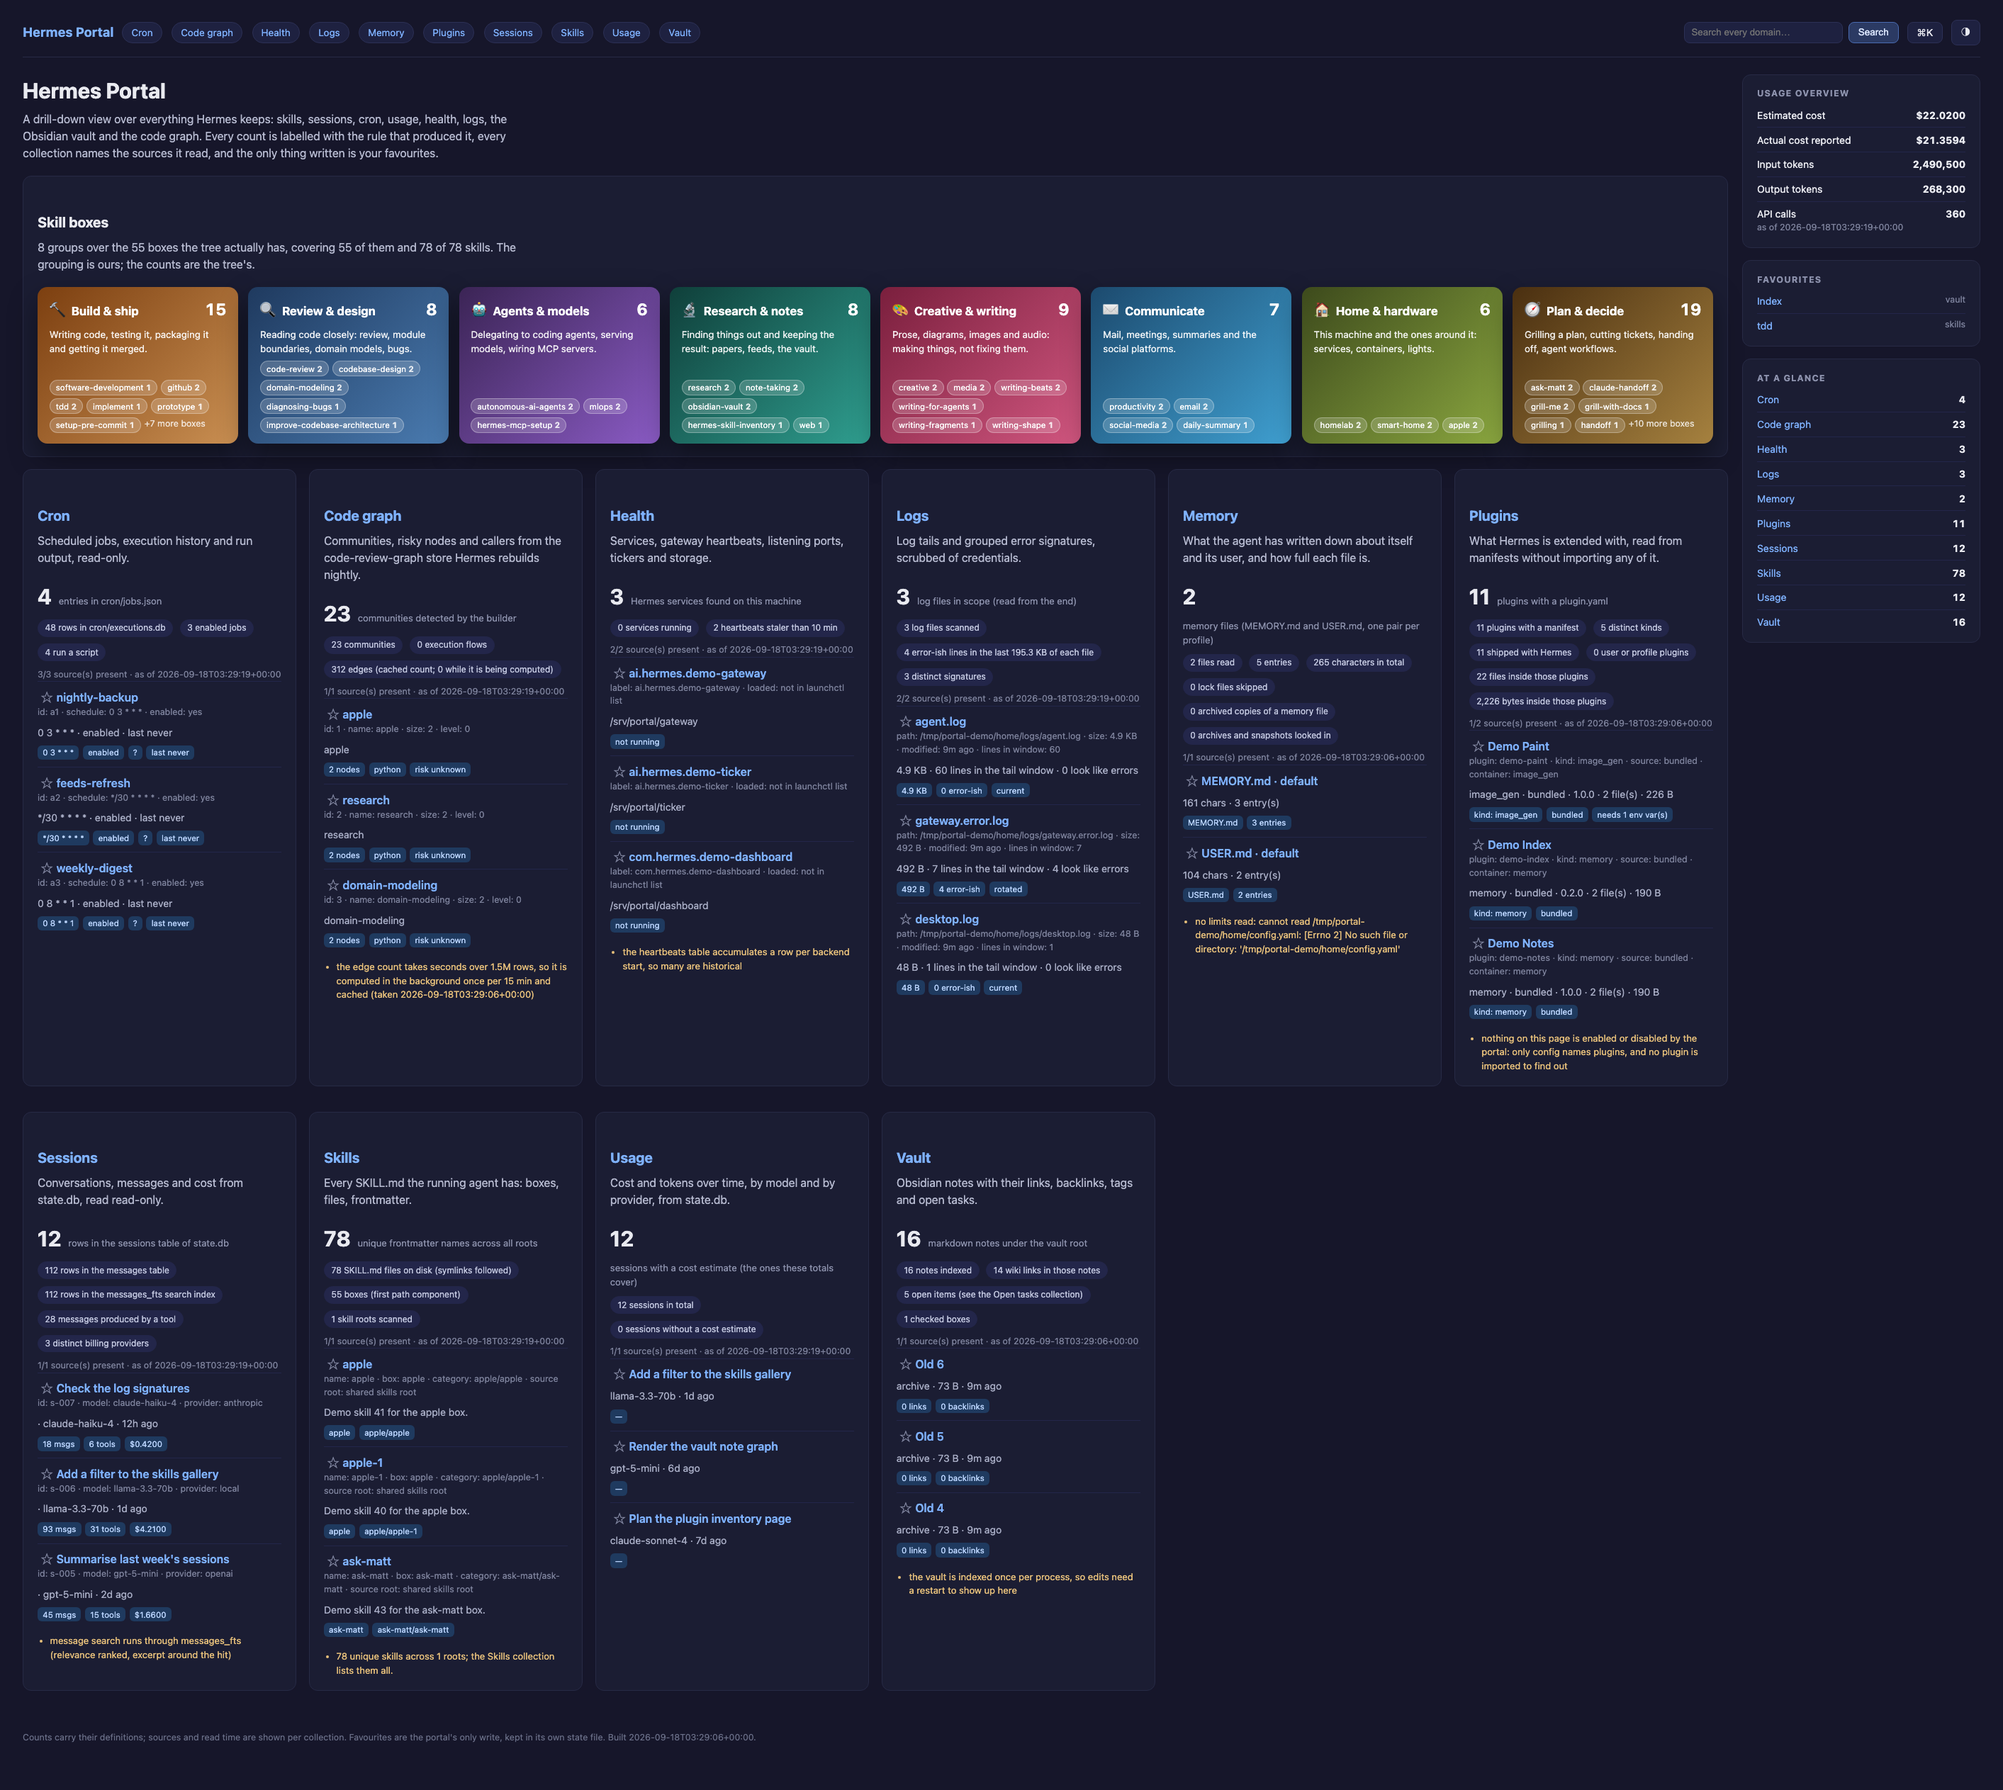
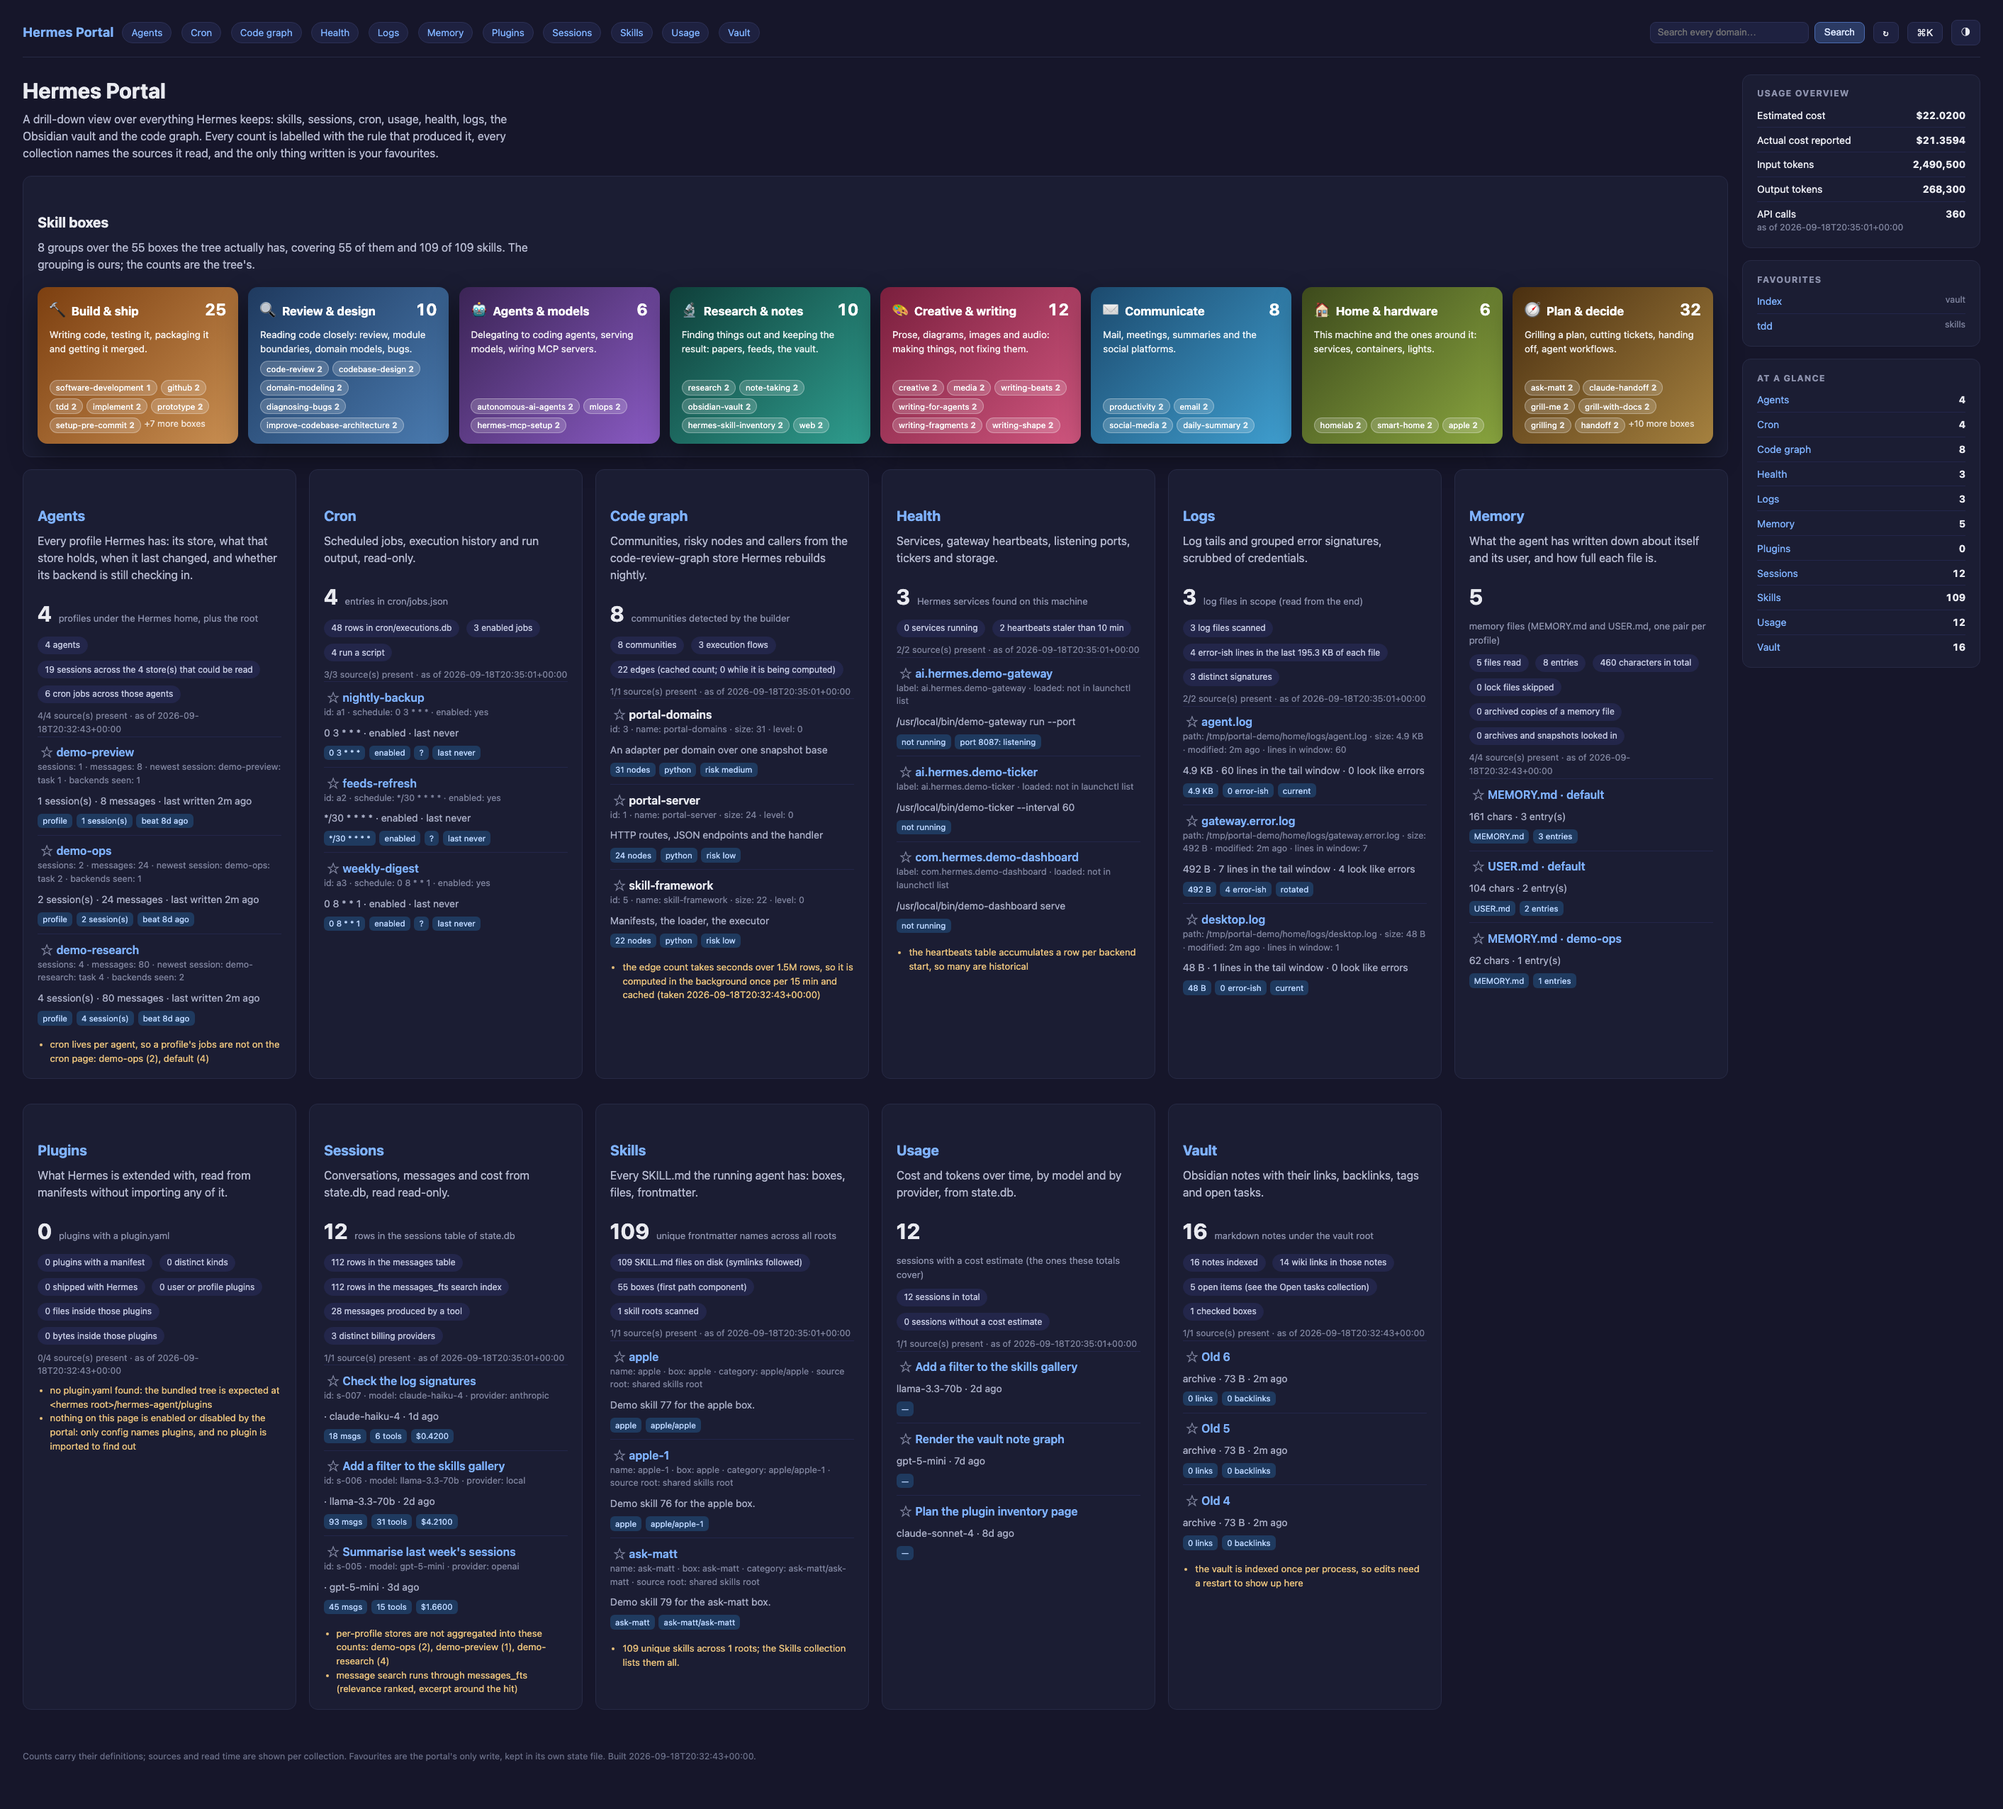
A new README screenshot, and the row-order fix it found
The screenshot is a re-shoot of the demo instance, and it is not only cosmetic: the
agents card's rows led with `home:` and `store:`, two absolute paths where a row's
meta line (`render.py`, `record.fields[:4]`) should say what the agent has been
doing.  So the fields now lead with sessions, messages, newest session and backends
seen, and the size and the paths trail -- on a real machine too, where those first
four fields were the home path and the store path.

The fixture needed three things the eleventh domain reads: profile stores (the agents
card renders a single row without them), a code-graph store replayed from the
builder's own DDL (without it the card said "graph.db could not be read") and a
config.yaml (without it the memory card noted that it could not read one).  The store
DDL does not forgive carelessness either: `gateway_heartbeats.backend_id` is unique,
and two heartbeats on one backend id aborted the build.  That and the rest of the
shoot are recorded in the skill.

The image is a 1x capture of a 2826 CSS px viewport, the framing of the one it
replaces: the card grid is `auto-fill`, so a narrower viewport re-flows it into two
columns and doubles the page height.  The README now says out loud that the page is a
fixture, since the demo profile names are visible in it.

518 tests; one of them pins the field order instead of the position of a path.

diff --git a/hermes/portal/domains/agents.py b/hermes/portal/domains/agents.py
@@ -345,24 +345,28 @@ class AgentsDomain(SnapshotDomain[AgentIndex]):
             badges = (*badges, f"{agent.sessions} session(s)")
         if agent.store_readable and agent.heartbeats:
             badges = (*badges, f"beat {fmt_ago(agent.last_heartbeat)}")
-        fields: list[tuple[str, str]] = [("home", str(agent.base))]
+        fields: list[tuple[str, str]] = []
         if agent.store_readable:
             fields.extend(
                 [
-                    ("store", str(agent.store)),
-                    ("size", human_size(agent.store_size)),
-                    ("last written", fmt_ago(agent.store_modified)),
                     ("sessions", str(agent.sessions)),
                     ("messages", f"{agent.messages:,}"),
                     ("newest session", agent.latest_session or "\u2014"),
                     ("backends seen", str(agent.heartbeats)),
                     ("last heartbeat", fmt_ago(agent.last_heartbeat)),
+                    # Last written, size and the paths sit after the activity: a row's
+                    # meta line leads with them: "12 session(s) · 555 messages" is what
+                    # an operator scans for.
+                    ("last written", fmt_ago(agent.store_modified)),
+                    ("size", human_size(agent.store_size)),
+                    ("store", str(agent.store)),
+                    ("home", str(agent.base)),
                 ]
             )
         else:
             # A store that was not read has no numbers to show.  Saying so is the point:
             # "0 sessions" beside an unreadable file is a claim nobody made.
-            fields.append(("read", agent.store_error))
+            fields.extend([("home", str(agent.base)), ("read", agent.store_error)])
         if agent.jobs:
             fields.append(("cron jobs", str(len(agent.jobs))))
         return Record(

diff --git a/tests/test_portal_agents.py b/tests/test_portal_agents.py
@@ -144,7 +144,14 @@ class TestSet(AgentsTestCase):
         self.assertIn("default", self.labels())
         root = next(a for a in self.index.agents if a.is_root)
         self.assertEqual(root.base, self.home)
-        self.assertTrue(str(self.record("default").fields[0][1]) == str(self.home))
+        fields = dict(self.record("default").fields)
+        self.assertEqual(fields["home"], str(self.home))
+        # A row's meta line takes the leading fields (render.py: fields[:4]), so the
+        # activity leads and the paths trail -- pinned rather than left to drift.
+        self.assertEqual(
+            [key for key, _value in self.record("default").fields[:2]],
+            ["sessions", "messages"],
+        )
 
 
 class TestRollup(AgentsTestCase):

diff --git a/README.md b/README.md
@@ -12,7 +12,10 @@ No pull requests, you are free to fork it, use it, enhance it on your own.
 [Why it exists](#why-this-project) is the next section; [how to run
 it](#how-to-use-this) is the one after that. The layout:
 
-![The Hermes Portal index page: the eight skill tiles across the top, then a card per domain](/docs/screenshot.png)
+![The Hermes Portal index page, a demo instance: the eight skill tiles across the top, then a card per domain](/docs/screenshot.png)
+
+*The page above is a demo instance -- a fixture Hermes home, not this machine, and the
+`demo-*` agent names are fixtures too.*
 
 ```
 hermes/
